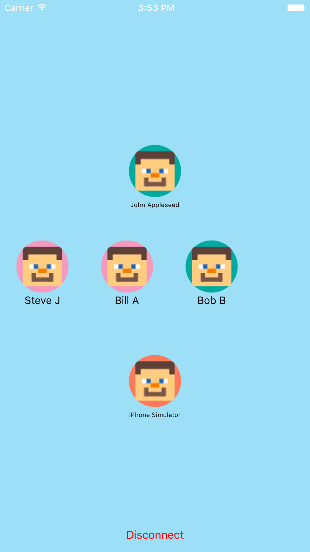
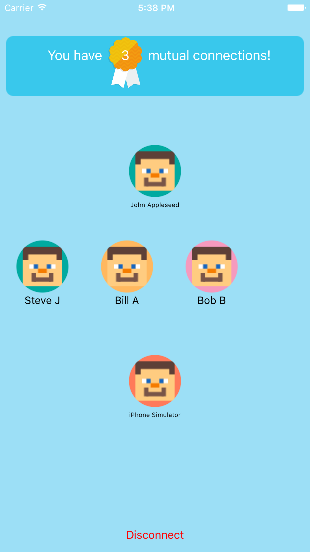
Displaying number of connections in ConnectionsViewController.

diff --git a/SixDegrees/Controllers/SDGContactsController.swift b/SixDegrees/Controllers/SDGContactsController.swift
@@ -95,57 +95,60 @@ class SDGContactsController {
             myContactsIsOuter = true
         }
 
-        for outerContact: CNContact in outerLoopContacts {
-//
+//        for outerContact: CNContact in outerLoopContacts {
 //            let matchedContact: CNContact? = innerLoopContacts.filter({ (innerContact: CNContact) -> Bool in
-//                var phoneNumberMatches: Bool = false
 //
-//                for outerLabeledValue in outerContact.phoneNumbers {
-//                    let matchedPhoneNumber: CNLabeledValue? = innerContact.phoneNumbers.filter({ (innerLabeledValue: CNLabeledValue) -> Bool in
-//
+//                for outerPhoneNumberValue in outerContact.phoneNumbers {
+//                    let matchedPhoneNumber: CNLabeledValue? = innerContact.phoneNumbers.filter({ (phoneNumberValue: CNLabeledValue) -> Bool in
 //                        var outerPhoneNumberString: String?
-//                        var innerPhoneNumberString: String?
+//                        var phoneNumberString: String?
 //
 //                        // Parse phone number
 //                        do {
-//                            let outerPhoneNumber: PhoneNumber = try PhoneNumber(rawNumber: (outerLabeledValue.value as? String) ?? "")
+//                            let outerPhoneNumber: PhoneNumber = try PhoneNumber(rawNumber: (outerPhoneNumberValue.value as? CNPhoneNumber)?.stringValue ?? "")
 //                            outerPhoneNumberString = outerPhoneNumber.toInternational()
-//                            let innerPhoneNumber: PhoneNumber = try PhoneNumber(rawNumber: (innerLabeledValue.value as? String) ?? "")
-//                            innerPhoneNumberString = innerPhoneNumber.toInternational()
+//                            let phoneNumber: PhoneNumber = try PhoneNumber(rawNumber: (phoneNumberValue.value as? CNPhoneNumber)?.stringValue ?? "")
+//                            phoneNumberString = phoneNumber.toInternational()
 //                        } catch {
 //                            // If failed to parse any contact, just strip the symbols and whitespaces
-//                            outerPhoneNumberString = (outerLabeledValue.value as? String)?.stringByTrimmingCharactersInSet(NSCharacterSet.symbolCharacterSet())
+//                            outerPhoneNumberString = ((outerPhoneNumberValue.value) as? CNPhoneNumber)?.stringValue.stringByTrimmingCharactersInSet(NSCharacterSet.symbolCharacterSet())
 //                            outerPhoneNumberString = outerPhoneNumberString?.stringByReplacingOccurrencesOfString(" ", withString: "")
 //                            outerPhoneNumberString = outerPhoneNumberString?.stringByReplacingOccurrencesOfString(" ", withString: "")
 //
-//                            innerPhoneNumberString = (innerLabeledValue.value as? String)?.stringByTrimmingCharactersInSet(NSCharacterSet.symbolCharacterSet())
-//                            innerPhoneNumberString = innerPhoneNumberString?.stringByReplacingOccurrencesOfString(" ", withString: "")
-//                            innerPhoneNumberString = innerPhoneNumberString?.stringByReplacingOccurrencesOfString(" ", withString: "")
+//                            phoneNumberString = ((phoneNumberValue.value) as? CNPhoneNumber)?.stringValue.stringByTrimmingCharactersInSet(NSCharacterSet.symbolCharacterSet())
+//                            phoneNumberString = phoneNumberString?.stringByReplacingOccurrencesOfString(" ", withString: "")
+//                            phoneNumberString = phoneNumberString?.stringByReplacingOccurrencesOfString(" ", withString: "")
 //                        }
-//                        return outerPhoneNumberString == innerPhoneNumberString
+//
+//                        if outerPhoneNumberString != nil && phoneNumberString != nil {
+//                            return outerPhoneNumberString == phoneNumberString
+//                        } else {
+//                            return false
+//                        }
 //                    }).first
 //
-//                    // Store a bool whether there is a matched phone number
 //                    if matchedPhoneNumber != nil {
-//                        phoneNumberMatches = true
-//                        break
-//                    } else {
-//                        phoneNumberMatches = false
+//                        return true
 //                    }
 //                }
-//                return phoneNumberMatches
+//                return false
 //            }).first
 //
 //            if matchedContact != nil {
 //                matchedContacts.append(matchedContact!)
 //            }
 //        }
-//
-//        return matchedContacts
-//    }
 
+
+        var outerLoopCount: Int = 0
+        for outerContact: CNContact in outerLoopContacts {
+            print("Outer Loop: \(outerLoopCount)")
+            outerLoopCount += 1
+            var innerLoopCount: Int = 0
             innerContactsLoop: for innerContact: CNContact in innerLoopContacts {
 
+                print("Inner Loop \(innerLoopCount)")
+                innerLoopCount += 1
                 // Comparing phone numbers
                 for outerContactPhoneNumberLV: CNLabeledValue in outerContact.phoneNumbers {
                     for innerContactPhoneNumberLV: CNLabeledValue in innerContact.phoneNumbers {

diff --git a/SixDegrees/ViewControllers/ConnectionsViewController.swift b/SixDegrees/ViewControllers/ConnectionsViewController.swift
@@ -47,6 +47,10 @@ class ConnectionsViewController: UIViewController {
     @IBOutlet weak var userIconView: UserIconView!
     @IBOutlet weak var userIconHorizontalConstraint: NSLayoutConstraint!
 
+    
+    @IBOutlet weak var numberOfConnectionsView: UIView!
+    @IBOutlet weak var numberOfConnectionsLabel: UILabel!
+
     @IBOutlet weak var disconnectButton: UIButton!
 
     var connectingUser: SDGUser!
@@ -66,6 +70,10 @@ class ConnectionsViewController: UIViewController {
         } else {
             self.displayMode = SDGDisplayMode.Normal
         }
+
+        // Hides number of connections
+        self.numberOfConnectionsView.alpha = 0
+        self.numberOfConnectionsView.layer.cornerRadius = 10
 
         let longPressGesture: UILongPressGestureRecognizer = UILongPressGestureRecognizer(target: self, action: #selector(self.handleLongPressGesture(_:)))
         self.mutualUsersCollectionView.addGestureRecognizer(longPressGesture)
@@ -109,9 +117,16 @@ class ConnectionsViewController: UIViewController {
             let dispatchTime: dispatch_time_t = dispatch_time(DISPATCH_TIME_NOW, Int64(3 * NSEC_PER_SEC))
             dispatch_after(dispatchTime, dispatch_get_main_queue(), {
                 self.hud?.hide(true)
+
+                // Show number of users
+                self.numberOfConnectionsLabel.text = "\(self.mutualUsers.count)"
+
                 UIView.animateWithDuration(1, delay: 0, options: .CurveLinear, animations: {
                     self.connectingUserHorizontalConstraint.constant -= 75
                     self.userIconHorizontalConstraint.constant += 75
+
+                    self.numberOfConnectionsView.alpha = 1
+
                     self.mutualUsersCollectionView.reloadSections(NSIndexSet(index: 0))
                     self.view.layoutIfNeeded()
                     }, completion: nil)
@@ -225,9 +240,15 @@ extension ConnectionsViewController: SDGBluetoothManagerDelegate {
             dispatch_async(dispatch_get_main_queue(), {
                 self.hud?.hide(true)
 
+                // Show number of connections
+                self.numberOfConnectionsLabel.text = "\(self.mutualUsers.count)"
+
                 UIView.animateWithDuration(1, delay: 0, options: .CurveLinear, animations: {
                     self.connectingUserHorizontalConstraint.constant -= 75
                     self.userIconHorizontalConstraint.constant += 75
+
+                    self.numberOfConnectionsView.alpha = 1
+
                     self.mutualUsersCollectionView.reloadSections(NSIndexSet(index: 0))
                     self.view.layoutIfNeeded()
                     }, completion: nil)

diff --git a/SixDegrees/ViewControllers/LocateViewController.swift b/SixDegrees/ViewControllers/LocateViewController.swift
@@ -102,11 +102,6 @@ class LocateViewController: UIViewController {
         self.pulsator.backgroundColor = UIColor.SDGDarkBlue().CGColor
         self.pulsator.frame.origin.x += 35
         self.pulsator.frame.origin.y += 35
-
-//         Setup interactive movement for collectionview
-//        let longPressGesture: UILongPressGestureRecognizer = UILongPressGestureRecognizer(target: self, action: #selector(self.handleLongPressGesture(_:)))
-//        self.discoveredUsersCollectionView.addGestureRecognizer(longPressGesture)
-//        self.discoveredUsersCollectionView.clipsToBounds = false
     }
 
     override func viewWillAppear(animated: Bool) {
